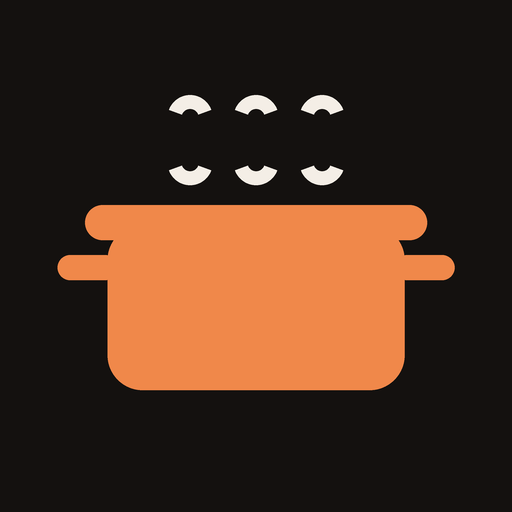
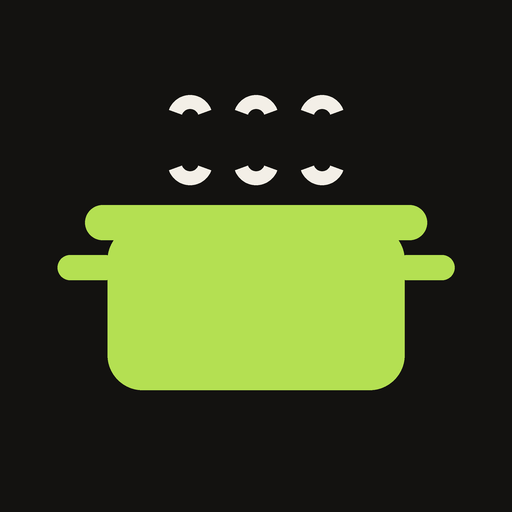
Farby ako v Makrá

Changed region(s): [[0.0938, 0.375, 0.9062, 0.7812]]

diff --git a/index.html b/index.html
@@ -3,7 +3,7 @@
 <head>
 <meta charset="utf-8">
 <meta name="viewport" content="width=device-width,initial-scale=1,viewport-fit=cover">
-<meta name="theme-color" content="#14110f">
+<meta name="theme-color" content="#131210">
 <meta name="apple-mobile-web-app-capable" content="yes">
 <meta name="apple-mobile-web-app-status-bar-style" content="black-translucent">
 <meta name="apple-mobile-web-app-title" content="Varenie">
@@ -12,7 +12,7 @@
 <title>Varenie</title>
 <link href="https://fonts.googleapis.com/css2?family=Bricolage+Grotesque:opsz,wght@12..96,400;12..96,600;12..96,800&display=swap" rel="stylesheet">
 <style>
-:root{--bg:#14110f;--card:#1e1a17;--card2:#2b2621;--line:#36302a;--txt:#f4eee6;--mut:#ab9f92;--acc:#f0884a;--on:#2a1406;--p:#74b9f2;--ok:#9fd36a;--bad:#ff7461;--disp:"Bricolage Grotesque",system-ui,sans-serif}
+:root{--bg:#131210;--card:#1c1a17;--card2:#292622;--line:#332f2a;--txt:#f3efe7;--mut:#aaa397;--acc:#b4e052;--on:#171a0b;--p:#74b9f2;--c:#f4bd50;--f:#f08a98;--ok:#b4e052;--bad:#ff7461;--disp:"Bricolage Grotesque",system-ui,sans-serif}
 *{box-sizing:border-box;-webkit-tap-highlight-color:transparent}
 html,body{margin:0;background:var(--bg);color:var(--txt);font-family:system-ui,-apple-system,"Segoe UI",sans-serif;font-size:16px;line-height:1.45;font-variant-numeric:tabular-nums}
 button,input,textarea{font:inherit;color:inherit}
@@ -52,7 +52,7 @@ input:focus,textarea:focus{border-color:var(--acc)}
 .row .pr{white-space:nowrap;text-align:right;font-weight:600}
 .row s{color:var(--mut);font-weight:400;font-size:13px;margin-right:4px}
 .tag{display:inline-block;font-size:12px;padding:1px 7px;border-radius:6px;background:var(--card2);color:var(--mut);margin-left:6px}
-.tag.deal{background:rgba(240,136,74,.18);color:var(--acc)}
+.tag.deal{background:rgba(180,224,82,.16);color:var(--acc)}
 .chk{width:24px;height:24px;border-radius:7px;border:2px solid var(--line);background:none;flex:none;margin-top:1px}
 .chk.on{background:var(--ok);border-color:var(--ok)}
 .done .grow{color:var(--mut);text-decoration:line-through}
@@ -182,7 +182,7 @@ function optCard(o,oi,savedIdx){
   const buy=o.ingredients.filter(x=>!x.pantry),home=o.ingredients.filter(x=>x.pantry);
   const key=savedIdx!=null?"s"+savedIdx:"r"+oi;
   return `<div class="card opt"><h3>${esc(o.name)}</h3>
-   <div class="meta"><span><b>${Math.round(pp.kcal||0)}</b> kcal</span><span>B <b>${Math.round(pp.p||0)} g</b></span><span>S <b>${Math.round(pp.c||0)} g</b></span><span>T <b>${Math.round(pp.f||0)} g</b></span><span>${o.portions||1}× ${(o.portions||1)>4?"porcií":(o.portions||1)>1?"porcie":"porcia"}</span>${o.time_min?`<span>${o.time_min} min</span>`:""}</div>
+   <div class="meta"><span><b>${Math.round(pp.kcal||0)}</b> kcal</span><span>B <b style="color:var(--p)">${Math.round(pp.p||0)} g</b></span><span>S <b style="color:var(--c)">${Math.round(pp.c||0)} g</b></span><span>T <b style="color:var(--f)">${Math.round(pp.f||0)} g</b></span><span>${o.portions||1}× ${(o.portions||1)>4?"porcií":(o.portions||1)>1?"porcie":"porcia"}</span>${o.time_min?`<span>${o.time_min} min</span>`:""}</div>
    ${t.kcal&&savedIdx==null?`<div class="sm" style="color:${Math.abs((pp.kcal||0)-t.kcal)<=t.kcal*.15?"var(--ok)":"var(--mut)"}">cieľ ${t.kcal} kcal${t.p?` · B ${t.p}`:""}${t.c!=null?` · S ${t.c}`:""}${t.f!=null?` · T ${t.f} g`:""}</div>`:""}
    <h2 style="margin-top:16px">Nákup <span class="mut sm" style="font-weight:400">${eur(c.deal+c.other)}${c.other?" (odhad)":""}</span></h2>
    ${buy.map((x,i)=>{const id=key+"-"+i,on=!!checked[id];return `<div class="row ${on?"done":""}"><button class="chk ${on?"on":""}" data-chk="${id}" aria-label="Kúpené"></button>

diff --git a/sw.js b/sw.js
@@ -1,4 +1,4 @@
-const C="varenie-v13",SHELL=["./","index.html","manifest.json","icon.png"];
+const C="varenie-v14",SHELL=["./","index.html","manifest.json","icon.png"];
 self.addEventListener("install",e=>e.waitUntil(caches.open(C).then(c=>c.addAll(SHELL)).then(()=>self.skipWaiting())));
 self.addEventListener("activate",e=>e.waitUntil(caches.keys().then(k=>Promise.all(k.filter(x=>x!==C).map(x=>caches.delete(x)))).then(()=>self.clients.claim())));
 self.addEventListener("fetch",e=>{const u=new URL(e.request.url);if(e.request.method!=="GET"||u.origin!==location.origin||!u.pathname.startsWith("/varenie/"))return;
